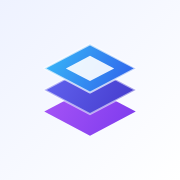
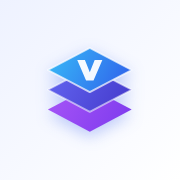
rename to V os

Changed region(s): [[0.25, 0.25, 0.75, 0.6389], [0.25, 0.6111, 0.75, 0.7778]]

diff --git a/web/src/components/brand.tsx b/web/src/components/brand.tsx
@@ -1,44 +1,48 @@
 import { cx } from "@/components/ui";
 
-// The SMS logo: three stacked tiles, read from the bottom up as the school,
-// its people and their day-to-day records. The flat mark is an SVG that works
-// at any size (and is drawn into the app icons); the 3D mark builds the same
-// stack from real layers that float apart and turn slowly.
+// The Vidyalaya OS logo: three stacked tiles, read from the bottom up as the
+// school, its people and their day-to-day records, with a "V" for Vidyalaya
+// (a place of learning) on the top tile. The flat mark is an SVG that works at
+// any size (and is drawn into the app icons); the 3D mark builds the same stack
+// from real layers that float apart and turn slowly.
 
 /** The flat logo mark. */
 export function LogoMark({ className, title }: { className?: string; title?: string }) {
   return (
     <svg viewBox="0 0 48 48" className={className} role={title ? "img" : undefined} aria-label={title} aria-hidden={title ? undefined : true}>
       <defs>
-        <linearGradient id="sms-top" x1="6" y1="6" x2="42" y2="26" gradientUnits="userSpaceOnUse">
+        <linearGradient id="vos-top" x1="6" y1="6" x2="42" y2="26" gradientUnits="userSpaceOnUse">
           <stop stopColor="#38bdf8" />
           <stop offset="1" stopColor="#2f5bea" />
         </linearGradient>
-        <linearGradient id="sms-mid" x1="6" y1="14" x2="42" y2="34" gradientUnits="userSpaceOnUse">
+        <linearGradient id="vos-mid" x1="6" y1="14" x2="42" y2="34" gradientUnits="userSpaceOnUse">
           <stop stopColor="#6366f1" />
           <stop offset="1" stopColor="#4338ca" />
         </linearGradient>
-        <linearGradient id="sms-low" x1="6" y1="22" x2="42" y2="42" gradientUnits="userSpaceOnUse">
+        <linearGradient id="vos-low" x1="6" y1="22" x2="42" y2="42" gradientUnits="userSpaceOnUse">
           <stop stopColor="#a855f7" />
           <stop offset="1" stopColor="#7c3aed" />
         </linearGradient>
       </defs>
-      <path d="M24 23 42 32.5 24 42 6 32.5Z" fill="url(#sms-low)" />
-      <path d="M24 14.5 42 24 24 33.5 6 24Z" fill="url(#sms-mid)" stroke="#fff" strokeOpacity=".55" strokeWidth=".8" strokeLinejoin="round" />
-      <path d="M24 6 42 15.5 24 25 6 15.5Z" fill="url(#sms-top)" stroke="#fff" strokeOpacity=".7" strokeWidth=".8" strokeLinejoin="round" />
-      <path d="M24 10.5 33.5 15.5 24 20.5 14.5 15.5Z" fill="#fff" fillOpacity=".9" />
+      <path d="M24 23 42 32.5 24 42 6 32.5Z" fill="url(#vos-low)" />
+      <path d="M24 14.5 42 24 24 33.5 6 24Z" fill="url(#vos-mid)" stroke="#fff" strokeOpacity=".55" strokeWidth=".8" strokeLinejoin="round" />
+      <path d="M24 6 42 15.5 24 25 6 15.5Z" fill="url(#vos-top)" stroke="#fff" strokeOpacity=".7" strokeWidth=".8" strokeLinejoin="round" />
+      <path d="M18.6 11.2h3.3l2.1 5.3 2.1-5.3h3.3L25.6 20h-3.2Z" fill="#fff" fillOpacity=".95" />
     </svg>
   );
 }
 
-/** The mark with the "SMS" word beside it. */
+/** The mark with the "Vidyalaya OS" name beside it. */
 export function Logo({ className, subtitle = true, invert }: { className?: string; subtitle?: boolean; invert?: boolean }) {
   return (
     <span className={cx("inline-flex items-center gap-2.5", className)}>
       <LogoMark className="size-10 shrink-0 drop-shadow-[0_6px_12px_rgb(47_91_234/0.35)]" />
       <span className="leading-none">
-        <span className={cx("block text-xl font-extrabold tracking-tight", invert ? "text-white" : "bg-gradient-to-r from-brand to-violet-500 bg-clip-text text-transparent")}>SMS</span>
-        {subtitle && <span className={cx("mt-1 block text-[0.7rem] font-medium uppercase tracking-[0.14em]", invert ? "text-white/70" : "text-soft")}>School Management System</span>}
+        <span className="flex items-center gap-1.5">
+          <span className={cx("text-xl font-extrabold tracking-tight", invert ? "text-white" : "bg-gradient-to-r from-brand to-violet-500 bg-clip-text text-transparent")}>Vidyalaya</span>
+          <span className={cx("rounded-md px-1.5 py-0.5 text-[0.7rem] font-bold tracking-wider", invert ? "bg-white/15 text-white" : "bg-brand-soft text-brand")}>OS</span>
+        </span>
+        {subtitle && <span className={cx("mt-1 block text-[0.7rem] font-medium uppercase tracking-[0.14em]", invert ? "text-white/70" : "text-soft")}>The school operating system</span>}
       </span>
     </span>
   );
@@ -68,8 +72,12 @@ export function Logo3D({ size = 220, className }: { size?: number; className?: s
             {/* A thin edge under each tile gives it thickness. */}
             <div className={cx("absolute inset-0 rounded-[22%] opacity-80", l.edge)} style={{ transform: `translateZ(-${tile * 0.06}px)` }} />
             {l.z === 2 && (
-              <div className="absolute inset-[24%] flex items-center justify-center rounded-[18%] bg-white/90 text-brand shadow-lg" style={{ transform: `translateZ(${tile * 0.02}px)` }}>
-                <span className="font-extrabold tracking-tight" style={{ fontSize: tile * 0.16 }}>SMS</span>
+              <div className="absolute inset-[22%] flex items-center justify-center rounded-[18%] bg-white/90 text-brand shadow-lg" style={{ transform: `translateZ(${tile * 0.02}px)` }}>
+                {/* Turned back so the V stands upright as the stack sways. */}
+                <span className="flex rotate-45 flex-col items-center leading-none">
+                  <span className="font-black" style={{ fontSize: tile * 0.3 }}>V</span>
+                  <span className="font-bold tracking-[0.08em] text-violet-600" style={{ fontSize: tile * 0.08 }}>OS</span>
+                </span>
               </div>
             )}
           </div>

diff --git a/web/src/components/landing/Landing.tsx b/web/src/components/landing/Landing.tsx
@@ -37,7 +37,7 @@ function TopBar() {
   return (
     <header className={cx("sticky top-0 z-40 transition duration-300", scrolled ? "border-b border-line bg-surface/80 backdrop-blur-md" : "bg-transparent")}>
       <div className="mx-auto flex h-16 max-w-6xl items-center gap-4 px-4 sm:px-6">
-        <Link href="/" aria-label="SMS home"><Logo subtitle={false} /></Link>
+        <Link href="/" aria-label="Vidyalaya OS home"><Logo subtitle={false} /></Link>
         <nav aria-label="Page" className="ml-4 hidden items-center gap-1 text-sm font-medium text-soft md:flex">
           {[["#roles", "Who it's for"], ["#how", "How it works"], ["#features", "Features"], ["#faq", "Questions"]].map(([href, label]) => (
             <a key={href} href={href} className="rounded-lg px-3 py-2 transition hover:bg-muted hover:text-ink">{label}</a>
@@ -65,7 +65,7 @@ function Hero() {
       <div className="relative mx-auto grid max-w-6xl items-center gap-10 px-4 pb-16 pt-10 sm:px-6 lg:grid-cols-[1.1fr_1fr] lg:pb-24 lg:pt-16">
         <div className="animate-rise">
           <span className="inline-flex items-center gap-2 rounded-full border border-line bg-surface px-3 py-1 text-xs font-semibold text-soft shadow-xs">
-            <Sparkles className="size-3.5 text-brand" aria-hidden /> School Management System
+            <Sparkles className="size-3.5 text-brand" aria-hidden /> Vidyalaya OS · the school operating system
           </span>
           <h1 className="mt-5 text-4xl font-extrabold leading-[1.08] tracking-tight sm:text-5xl lg:text-6xl">
             One calm place for your{" "}
@@ -194,7 +194,7 @@ function RoleExplorer() {
               </div>
             </Tilt>
             <div className="rounded-3xl border border-line p-5">
-              <p className="text-sm font-semibold uppercase tracking-wider text-soft">A day with SMS</p>
+              <p className="text-sm font-semibold uppercase tracking-wider text-soft">A day with Vidyalaya OS</p>
               <ol className="mt-4 space-y-4">
                 {r.day.map((d, i) => (
                   <li key={d.time} className="relative flex gap-4">

diff --git a/web/src/lib/theme.tsx b/web/src/lib/theme.tsx
@@ -4,10 +4,13 @@ import { createContext, useCallback, useContext, useEffect, useState } from "rea
 
 export type ThemeChoice = "system" | "light" | "dark";
 
-const KEY = "sms.theme";
+const KEY = "vidyalaya.theme";
 
-/** Runs before the page paints, so a dark-mode user never sees a white flash. */
-export const THEME_SCRIPT = `(function(){try{var c=localStorage.getItem("${KEY}");var d=c==="dark"||((!c||c==="system")&&matchMedia("(prefers-color-scheme: dark)").matches);document.documentElement.dataset.theme=d?"dark":"light"}catch(e){document.documentElement.dataset.theme="light"}})()`;
+/** Runs before the page paints, so a dark-mode user never sees a white flash.
+ * It first moves anything saved under the old "sms." prefix (from before the
+ * rename to Vidyalaya OS) to "vidyalaya.", so nobody is signed out or loses
+ * their theme, chosen child or quiz drafts. */
+export const THEME_SCRIPT = `(function(){try{for(var i=localStorage.length-1;i>=0;i--){var k=localStorage.key(i);if(k&&k.indexOf("sms.")===0){var n="vidyalaya."+k.slice(4);if(localStorage.getItem(n)===null)localStorage.setItem(n,localStorage.getItem(k));localStorage.removeItem(k)}}}catch(e){}try{var c=localStorage.getItem("${KEY}");var d=c==="dark"||((!c||c==="system")&&matchMedia("(prefers-color-scheme: dark)").matches);document.documentElement.dataset.theme=d?"dark":"light"}catch(e){document.documentElement.dataset.theme="light"}})()`;
 
 type Ctx = { choice: ThemeChoice; resolved: "light" | "dark"; setChoice: (c: ThemeChoice) => void };
 

diff --git a/web/src/app/layout.tsx b/web/src/app/layout.tsx
@@ -9,11 +9,11 @@ import "./globals.css";
 const sans = Plus_Jakarta_Sans({ variable: "--font-sans-app", subsets: ["latin"], display: "swap" });
 
 export const metadata: Metadata = {
-  title: { default: "School Management System", template: "%s · School Management System" },
+  title: { default: "Vidyalaya OS", template: "%s · Vidyalaya OS" },
   description: "One place for schools, teachers, students and parents: timetable, attendance, homework, tests, report cards, quizzes and fees.",
-  applicationName: "School Management System",
+  applicationName: "Vidyalaya OS",
   manifest: "/manifest.webmanifest",
-  appleWebApp: { capable: true, title: "SMS", statusBarStyle: "default" },
+  appleWebApp: { capable: true, title: "Vidyalaya OS", statusBarStyle: "default" },
   formatDetection: { telephone: false },
   icons: { icon: [{ url: "/favicon.ico" }, { url: "/logo.svg", type: "image/svg+xml" }], apple: "/apple-icon.png" },
   // Signed-in screens hold private school data; only the login page is meant to be found.

diff --git a/web/src/app/app/quizzes/[id]/page.tsx b/web/src/app/app/quizzes/[id]/page.tsx
@@ -77,7 +77,7 @@ function timeLeft(until: string, now: number) {
  * Answers are kept in this tab while the student works, so a refresh does
  * not lose them. Keys 1 to 4 (or A to D) choose, arrows move. */
 function TakeQuiz({ paper, onDone }: { paper: QuizPaper; onDone: () => void }) {
-  const draftKey = `sms.quiz.${paper.quiz.id}`;
+  const draftKey = `vidyalaya.quiz.${paper.quiz.id}`;
   const [answers, setAnswers] = useState<Record<string, number>>(() => {
     try {
       return JSON.parse(window.sessionStorage.getItem(draftKey) ?? "{}");

diff --git a/web/src/app/login/page.tsx b/web/src/app/login/page.tsx
@@ -136,7 +136,7 @@ function Login() {
   return (
     <AuthLayout>
       <Link href="/" className="mb-6 inline-flex items-center gap-1.5 text-sm font-medium text-soft transition hover:text-brand">
-        <ArrowLeft className="size-4" aria-hidden /> About SMS
+        <ArrowLeft className="size-4" aria-hidden /> About Vidyalaya OS
       </Link>
       <h1 className="text-3xl font-bold tracking-tight">Welcome back</h1>
       <p className="mt-2 text-soft">Sign in with the email or phone number your school registered.</p>

diff --git a/web/src/app/platform/layout.tsx b/web/src/app/platform/layout.tsx
@@ -26,7 +26,7 @@ export default function PlatformLayout({ children }: { children: React.ReactNode
 
   return (
     <AppShell
-      brand={{ title: "SMS Platform", subtitle: "Platform owner", mark: <LogoMark className="size-9 shrink-0" /> }}
+      brand={{ title: "Vidyalaya OS", subtitle: "Platform owner", mark: <LogoMark className="size-9 shrink-0" /> }}
       groups={[{ items }]}
       tabs={items}
       user={{ name: user.name, detail: user.email ?? user.phone ?? "" }}

diff --git a/web/src/components/AdminReminders.tsx b/web/src/components/AdminReminders.tsx
@@ -7,7 +7,7 @@ import { TeacherAttendanceSheet } from "@/lib/types";
 import { useApi } from "@/lib/useApi";
 
 /** Sent when the admin saves teacher attendance, so reminders refresh. */
-export const TEACHER_ATTENDANCE_SAVED = "sms:teacher-attendance-saved";
+export const TEACHER_ATTENDANCE_SAVED = "vidyalaya:teacher-attendance-saved";
 
 /** Today's teacher register, kept fresh when it is saved anywhere. */
 export function useTeacherRegister() {

diff --git a/web/src/lib/api.ts b/web/src/lib/api.ts
@@ -17,8 +17,8 @@ export type Session = { access: string; refresh: string; user: User; memberships
 
 export type Page<T> = { count: number; next: string | null; previous: string | null; results: T[] };
 
-const STORAGE_KEY = "sms.session";
-const SCHOOL_KEY = "sms.school";
+const STORAGE_KEY = "vidyalaya.session";
+const SCHOOL_KEY = "vidyalaya.school";
 
 export class ApiError extends Error {
   status: number;

diff --git a/web/src/lib/config.ts b/web/src/lib/config.ts
@@ -21,7 +21,7 @@ export type AppConfig = {
 };
 
 export const DEFAULT_CONFIG: AppConfig = {
-  app_name: "SMS · School Management System",
+  app_name: "Vidyalaya OS",
   plans: [
     { key: "trial", label: "Trial", description: "Try every feature free while the school sets up." },
     { key: "standard", label: "Standard", description: "Attendance, homework, tests, report cards and fees." },

diff --git a/web/src/app/page.tsx b/web/src/app/page.tsx
@@ -2,7 +2,7 @@ import type { Metadata } from "next";
 import { FrontPage } from "@/components/landing/FrontPage";
 
 export const metadata: Metadata = {
-  title: { absolute: "SMS · School Management System" },
+  title: { absolute: "Vidyalaya OS · The school operating system" },
   // The public front page may be found; signed-in screens may not.
   robots: { index: true, follow: true },
 };

diff --git a/web/src/lib/children.tsx b/web/src/lib/children.tsx
@@ -17,7 +17,7 @@ type Ctx = {
 };
 
 const ChildrenContext = createContext<Ctx | null>(null);
-const KEY = "sms.child";
+const KEY = "vidyalaya.child";
 
 /** Which student the "your record" screens are about. A parent's choice of
  * child is shared by every screen and remembered on this device. */
